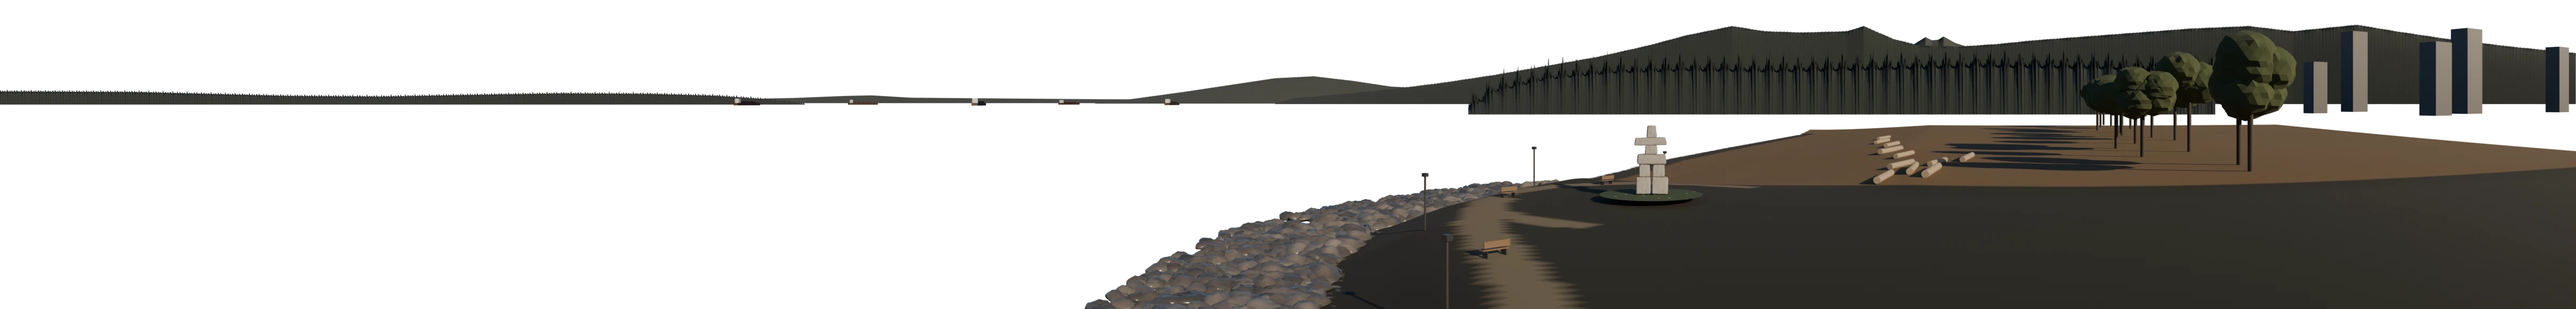
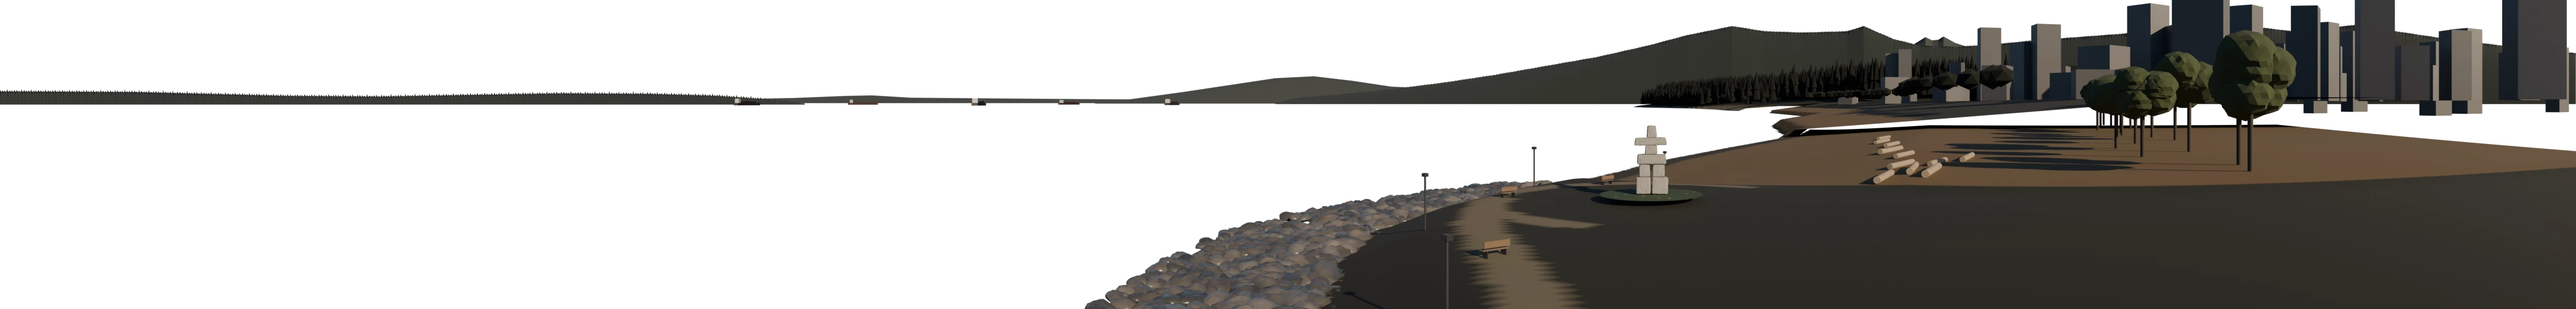
Model Stanley Park in 3D and frame the view on the sun
- Stanley Park is now a forested headland traced from satellite imagery:
  about 20,000 fir, cedar and maple crowns (some in autumn colour), the
  seawall, Second and Third Beach, and Siwash Rock, plus the West End
  shore and Beach Avenue trees.
- Fix the haze layer: it used a see-through material, so near objects
  picked up the haze of everything behind them and looked ghostly. It is
  now rendered solid to EXR and moved into the alpha channel.
- Wider default lens (about 120-130 degrees on desktop) with the sunset a
  quarter of the way in from the left; drag still pans along the shore.

Changed region(s): [[0.5625, 0.0, 1.0, 0.4375]]

diff --git a/index.html b/index.html
@@ -218,7 +218,7 @@ const RIDGES = [
   {name: "Bowen Island", far: .72, tex: .03, d: 20000, shift: -1, pts: [[286,0],[289,.35],[293,.9],[297,1.5],[300,1.95],[303,2.1],[306,1.75],[309,1.3],[313,1.1],[318,1.3]]},
   {name: "the North Shore mountains", far: .55, tex: .05, d: 13000, shift: 0, pts: [[299,0],[300.5,.4],[304,.7],[308,1.1],[312,1.6],[316,2.2],[320,2.9],[324,3.6],[328,4.5],[331,5.3],[334.5,6],[337,5.6],[340,5.5],[343.4,5.6],[344.7,6],[347,5],[349,4.5],[352,4.4],[355,4.6],[358,4.9],[362,5.2],[366,5.5],[370,5.8],[374.6,6],[378,5.6],[383,6.1],[386,5.6],[390,5],[395,4.4],[400,3.9]]},
   {name: "Point Grey", far: .35, tex: .06, d: 8000, shift: -3.5, pts: [[205,.95],[214,.9],[220,.75],[226,.6],[233,.55],[240,.68],[247,.8],[254,.76],[259,.62],[262,.42],[264.5,.15],[266,0]]},
-  {name: "Stanley Park", far: .12, tex: .12, d: 1300, shift: 0, pts: [[314,0],[316,1.4],[320,2.4],[325,2.9],[331,3.1],[338,3],[346,3.2],[354,3.4],[362,3.3],[372,3]]},
+  {name: "Stanley Park", far: .12, tex: .12, d: 2000, shift: 0, pts: [[326.5,0],[327.5,1.3],[330,1.9],[333,2.6],[336,2.9],[340,3],[345,2.9],[350,2.7],[356,2.6],[360,2.4]]},
   {name: "the Lions", far: .75, tex: 0, d: 19500, shift: 0, pts: [[346,4],[348.6,4.6],[349.5,5.15],[350,4.9],[350.5,4.95],[350.9,5.2],[351.8,4.7],[354,4]]},
 ];
 RIDGES.forEach(r => r.pts = r.pts.map(([a, h]) => [a + r.shift, Math.atan(Math.tan(h * rad) - CAM_H / r.d) / rad]));
@@ -383,7 +383,7 @@ const MAXALT = 48, C0 = 3;
 function resize() {
   const w = cvs.clientWidth || cvs.parentElement.clientWidth;
   DPR = Math.min(1.5, window.devicePixelRatio || 1);
-  Wd = w; Ht = Math.round(clamp(w * .45, 240, 540));
+  Wd = w; Ht = Math.round(clamp(w * .4, 240, 520));
   cvs.width = Math.round(Wd * DPR); cvs.height = Math.round(Ht * DPR); cvs.style.height = Ht + "px";
   for (const c of [offA, offB]) { c.width = cvs.width; c.height = cvs.height; c.getContext("2d").setTransform(DPR, 0, 0, DPR, 0, 0); }
   HZ = Ht * .70;
@@ -700,13 +700,13 @@ function drawDeck(deck, t, sun, L, W) {
 function renderCine(t) {
   const sun = sunPos(t), L = wxAt(0, t), W = wxAt(1, t);
   // camera: rule-of-thirds framing on tonight's sunset bearing, slow push-in through the time-lapse
-  const ppd0 = Math.max(Wd / 112, Ht * .3 / 15.4);
+  const ppd0 = Math.max(Wd / 130, Ht * .3 / 15.4);   // wide lens: the sun, the open bay and the Inukshuk together
   const prog = clamp((t - state.win[0]) / (state.win[1] - state.win[0]));
   V.ppd = ppd0 * (state.mode === "live" || reduceMotion ? 1.03 : 1 + .08 * ease(prog));
   const ss = state.ev ? state.ev.az : 260;
   const fov = Wd / V.ppd;
-  // sunset on the left third; slide right toward the Inukshuk and the North Shore when the frame is wide enough
-  let c = clamp(352 - fov / 2, ss + fov * .2, ss + fov * .44) + (sun.az - ss) * .12;
+  // the sunset sits about a quarter of the way in from the left; drag to look further along the shore
+  let c = ss + fov * .24 + (sun.az - ss) * .12;
   V.c = clamp(c + V.pan, 205 + fov / 2, 395 - fov / 2);
   V.hz = Ht * .7;
   ctx.setTransform(DPR, 0, 0, DPR, 0, 0);

diff --git a/blender/sp_ebay.py b/blender/sp_ebay.py
@@ -1,0 +1,125 @@
+# Stanley Park and the English Bay shore up to it, exec'd from land.py after fg_ebay.py (uses its helpers).
+# Shoreline traced from Google satellite imagery, in metres east (x) / north (y) of the Inukshuk, ordered from
+# Lions Gate round Prospect Point, south past Siwash Rock, Third Beach, Ferguson Point and Second Beach, then down
+# English Bay Beach to the Inukshuk point. Land lies on the right-hand side of travel.
+PARK_SHORE = [(110, 4100), (-140, 3970), (-480, 3930), (-770, 3805), (-935, 3555), (-1030, 3260), (-1095, 2970),
+              (-1180, 2675), (-1262, 2425), (-1313, 2175), (-1246, 1925), (-1062, 1715), (-811, 1505), (-619, 1255),
+              (-460, 1020), (-309, 795), (-184, 585), (-120, 330), (-60, 200), (-50, 120)]
+def park_dist(x, y):
+    best = 1e9
+    for (ax, ay), (bx, by) in zip(PARK_SHORE, PARK_SHORE[1:]):
+        dx, dy = bx - ax, by - ay; L2 = dx * dx + dy * dy
+        t = max(0, min(1, ((x - ax) * dx + (y - ay) * dy) / L2))
+        d = math.hypot(ax + t * dx - x, ay + t * dy - y)
+        if d < abs(best): best = d if dx * (y - ay) - dy * (x - ax) > 0 else -d
+    return best
+SECOND_BEACH, THIRD_BEACH = (1130, 1380), (2560, 2800)   # y-ranges of the sandy beaches
+def park_ground(x, y, d):
+    if y < 1050: return min(14, 2.5 + d * 0.08)                     # English Bay Beach and the West End shore
+    cliff = smooth(3300, 3700, y)                                    # Siwash Rock to Prospect Point: cliffs
+    hill = 3 + d * (0.12 + 0.5 * cliff)
+    return min(18 + 42 * cliff + 25 * smooth(200, 700, d), hill)
+def zone(x, y, d):
+    if y < 1050:
+        if d < 45: return "sand"
+        if d < 75: return "grass"
+        return "city"
+    if d < 7: return "seawall"
+    if SECOND_BEACH[0] < y < SECOND_BEACH[1] and d < 60: return "sand" if d < 45 else "grass"
+    if THIRD_BEACH[0] < y < THIRD_BEACH[1] and d < 35: return "sand"
+    if 1050 < y < 1500 and d < 160: return "grass"                  # lawns behind Second Beach
+    return "forest"
+ZC = {"sand": (0.4, 0.33, 0.24), "grass": (0.07, 0.09, 0.035), "seawall": (0.42, 0.4, 0.37), "city": (0.1, 0.1, 0.1), "forest": (0.02, 0.03, 0.02)}
+
+def heightfield(x0, x1, y0, y1, step):
+    bm = bmesh.new(); col = bm.loops.layers.color.new("Col"); vs, cs = {}, {}
+    nx, ny = int((x1 - x0) / step), int((y1 - y0) / step)
+    for i in range(nx + 1):
+        for j in range(ny + 1):
+            x, y = x0 + i * step, y0 + j * step
+            d = park_dist(x, y)
+            if d < -step * 1.5: continue
+            z = park_ground(x, y, max(d, 0)) if d > 0 else -1.0
+            zn = zone(x, y, max(d, 0))
+            if zn == "forest" and d > 320: z += 38 * smooth(320, 420, d)   # canopy cap where the trees end
+            vs[i, j] = bm.verts.new(W(x, y, z)); cs[i, j] = ZC[zn]
+    for i in range(nx):
+        for j in range(ny):
+            q = [(i, j), (i + 1, j), (i + 1, j + 1), (i, j + 1)]
+            if all(k in vs for k in q):
+                f = bm.faces.new([vs[k] for k in q])
+                for lp, k in zip(f.loops, q): lp[col] = (*cs[k], 1)
+    me = bpy.data.meshes.new("parkland"); bm.to_mesh(me); bm.free()
+    me.materials.append(bpy.data.materials["ground"]); link(bpy.data.objects.new("parkland", me))
+    for p in me.polygons: p.use_smooth = True
+heightfield(-330, 150, 180, 1060, 4)      # English Bay Beach up to Second Beach, fine cells (closer)
+heightfield(-1400, 700, 1040, 4200, 12)   # the park
+
+# ---------- trees: one merged mesh of conifers (Douglas fir, cedar) and broadleaf (bigleaf maple, some turning in October) ----------
+def tree_mat(n, l, b):
+    vc = n.new("ShaderNodeVertexColor"); vc.layer_name = "Tint"
+    nz = n.new("ShaderNodeTexNoise"); nz.inputs["Scale"].default_value = 0.35; nz.inputs["Detail"].default_value = 6
+    mul = n.new("ShaderNodeMix"); mul.data_type = "RGBA"; mul.blend_type = "MULTIPLY"; mul.inputs[0].default_value = 0.45
+    l.new(vc.outputs["Color"], mul.inputs[6]); l.new(nz.outputs["Color"], mul.inputs[7]); l.new(mul.outputs[2], b.inputs["Base Color"])
+    b.inputs["Roughness"].default_value = 1.0
+    bp = n.new("ShaderNodeBump"); bp.inputs["Strength"].default_value = 0.6; l.new(nz.outputs["Fac"], bp.inputs["Height"]); l.new(bp.outputs["Normal"], b.inputs["Normal"])
+bm = bmesh.new(); tint = bm.loops.layers.color.new("Tint")
+def add_cone(cx, cy, z0, r, h, sides, c):
+    ring = [bm.verts.new(W(cx + math.cos(a) * r * random.uniform(.85, 1.15), cy + math.sin(a) * r * random.uniform(.85, 1.15), z0))
+            for a in [k * 2 * math.pi / sides + random.random() * .3 for k in range(sides)]]
+    top = bm.verts.new(W(cx + random.uniform(-.6, .6), cy + random.uniform(-.6, .6), z0 + h))
+    for k in range(sides):
+        f = bm.faces.new((ring[k], ring[(k + 1) % sides], top))
+        for lp in f.loops: lp[tint] = c
+def add_blob(cx, cy, z0, r, c):
+    g = bmesh.ops.create_icosphere(bm, subdivisions=1, radius=r)
+    for v in g["verts"]:
+        v.co = Vector(W(cx, cy, z0)) + Vector((v.co.x * random.uniform(.85, 1.15), v.co.y * random.uniform(.85, 1.15), v.co.z * .75))
+    for f in {f for v in g["verts"] for f in v.link_faces}:
+        for lp in f.loops: lp[tint] = c
+random.seed(11); count = 0
+SP = 8.5
+for gx in range(int(-1400 / SP), int(700 / SP)):
+    for gy in range(int(1040 / SP), int(4200 / SP)):
+        x, y = gx * SP + random.uniform(-3, 3), gy * SP + random.uniform(-3, 3)
+        d = park_dist(x, y)
+        if d < 12 or d > 380: continue
+        zn = zone(x, y, d)
+        if zn != "forest" and not (zn == "grass" and random.random() < 0.08): continue
+        z0 = park_ground(x, y, d)
+        if random.random() < 0.72:   # conifer: two or three tiers
+            h = random.uniform(32, 58) * (1.15 if d > 60 else 0.9); r = h * random.uniform(.14, .19)
+            c = (random.uniform(.016, .03), random.uniform(.032, .05), random.uniform(.026, .04), 1)
+            add_cone(x, y, z0 + h * .12, r, h * .55, 7, c)
+            add_cone(x, y, z0 + h * .45, r * .72, h * .55, 7, c)
+        else:                         # broadleaf crown; a quarter of them in autumn colour
+            h = random.uniform(18, 30); r = random.uniform(5, 8.5)
+            c = (random.uniform(.18, .3), random.uniform(.1, .16), .02, 1) if random.random() < .28 else (random.uniform(.035, .05), random.uniform(.06, .08), .025, 1)
+            add_blob(x, y, z0 + h * .62, r, c)
+        count += 1
+# a row of big street trees along Beach Avenue behind English Bay Beach
+for k in range(40):
+    y = 230 + k * 20 + random.uniform(-4, 4)
+    for x in range(-330, 150, 6):
+        if 75 < park_dist(x, y) < 81:
+            add_blob(x + random.uniform(-2, 2), y, park_ground(x, y, 78) + 14, random.uniform(5.5, 7.5), (0.04, 0.065, 0.025, 1)); break
+me = bpy.data.meshes.new("parktrees"); bm.to_mesh(me); bm.free()
+me.materials.append(shader("parktrees", tree_mat)); link(bpy.data.objects.new("parktrees", me))
+print("PARK TREES", count, flush=True)
+
+# West End buildings behind Beach Avenue (low-rise near the water, towers further in)
+tower = bpy.data.materials["tower"] if "tower" in bpy.data.materials else material("tower", (0.12, 0.12, 0.13), 0.5)
+for k in range(70):
+    x, y = random.uniform(-280, 400), random.uniform(260, 1050)
+    d = park_dist(x, y)
+    if d < 95: continue
+    h = random.uniform(12, 30) if d < 180 else random.uniform(30, 85)
+    w = random.uniform(16, 28)
+    box(W(x, y, park_ground(x, y, d) + h / 2), (w, w * random.uniform(.7, 1.3), h), random.uniform(0, 1.5), tower)
+
+# Siwash Rock: the sea stack off the park's west shore, with its lone tree
+bpy.ops.mesh.primitive_cylinder_add(vertices=14, radius=7, depth=16, location=W(-1078, 3268, 7))
+sr = bpy.context.object; sr.scale = (1.0, 0.8, 1.0); sr.data.materials.append(granite)
+dm = sr.modifiers.new("d", "DISPLACE"); tx = bpy.data.textures.new("siwash", "CLOUDS"); tx.noise_scale = 3; dm.texture = tx; dm.strength = 2.5
+bm = bmesh.new(); tint = bm.loops.layers.color.new("Tint"); add_cone(-1078, 3268, 15, 2.5, 9, 7, (0.02, 0.04, 0.03, 1))
+me = bpy.data.meshes.new("siwashtree"); bm.to_mesh(me); bm.free(); me.materials.append(bpy.data.materials["parktrees"]); link(bpy.data.objects.new("siwashtree", me))

diff --git a/blender/land.py b/blender/land.py
@@ -2,11 +2,12 @@
 #   land_shade.webp  lit colour with alpha (terrain, freighters, the Inukshuk and its point, beach)
 #   land_haze.webp   white, alpha = aerial-perspective amount by distance (0 near, 1 far)
 # World axes: +Y north, +X east, metres. Camera 12 m above the rocks at Rock Balance Point, 68 m south-east of the Inukshuk.
-# Usage: Blender -b --factory-startup -P land.py -- OUTDIR PXPERDEG SAMPLES
+# Usage: Blender -b --factory-startup -P land.py -- OUTDIR PXPERDEG SAMPLES [haze]
 import bpy, bmesh, math, sys, os, json, random
 
 argv = sys.argv[sys.argv.index("--") + 1:]
 OUT, PXD, SAMPLES = argv[0], float(argv[1]), int(argv[2])
+HAZE_ONLY = len(argv) > 3 and argv[3] == "haze"   # re-render just the haze layer
 AZ0, AZ1, ALT0, ALT1 = 200.0, 400.0, -16.0, 8.0   # bearings past 360 wrap to the north-east
 os.makedirs(OUT, exist_ok=True)
 random.seed(4)
@@ -62,7 +63,6 @@ RIDGES = [
         [337,5.6],[340,5.5],[343.4,5.6],[344.7,6.0],[347,5.0],[349,4.5],[352,4.4],[355,4.6],[358,4.9],[362,5.2],[366,5.5],[370,5.8],[374.6,6.0],[378,5.6],[383,6.1],[386,5.6],[390,5.0],[395,4.4],[400,3.9]]),
     ("The Lions", 19500, 1500, 0, 0.0, [[346,4.0],[348.6,4.6],[349.5,5.15],[350.0,4.9],[350.5,4.95],[350.9,5.2],[351.8,4.7],[354,4.0]]),
     ("Point Grey", 8000, 1500, 35, -3.5, [[196,.95],[205,.95],[214,.9],[220,.75],[226,.6],[233,.55],[240,.68],[247,.8],[254,.76],[259,.62],[262,.42],[264.5,.15],[266,0]]),
-    ("Stanley Park", 1300, 400, 45, 0.0, [[314,0],[316,1.4],[320,2.4],[325,2.9],[331,3.1],[338,3.0],[346,3.2],[354,3.4],[362,3.3],[372,3.0]]),
 ]
 def prof(pts, a):
     if a <= pts[0][0] or a >= pts[-1][0]: return 0.0
@@ -120,6 +120,7 @@ for b, dist, L, head in [(258, 4200, 190, 30), (267, 5600, 225, 75), (276, 3800,
         c.scale = (L * 0.07, 13, 4 + random.random() * 3); c.rotation_euler = h.rotation_euler; c.data.materials.append(hull)
 
 exec(open(os.path.join(os.path.dirname(__file__), "fg_ebay.py")).read())
+exec(open(os.path.join(os.path.dirname(__file__), "sp_ebay.py")).read())   # Stanley Park, modelled in 3D
 
 # Daylight to shade the scenery: sun low in the WSW (backlit, as it is all afternoon from this beach)
 world = bpy.data.worlds.new("w"); sc.world = world; world.use_nodes = True
@@ -129,9 +130,10 @@ sky.sun_elevation = math.radians(22); sky.sun_rotation = math.radians(110); sky.
 wl.new(sky.outputs["Color"], wn["Background"].inputs["Color"])
 sc.view_settings.exposure = -4.6
 sc.render.filepath = os.path.join(OUT, "land_shade.webp")
-bpy.ops.render.render(write_still=True); print("RENDERED shade", flush=True)
+if not HAZE_ONLY: bpy.ops.render.render(write_still=True); print("RENDERED shade", flush=True)
 
-# Haze pass: emission = 1 - exp(-distance / 14 km)
+# Haze pass: solid emission = 1 - exp(-distance / 14 km), rendered linear to EXR, then moved into the alpha channel
+# (a see-through haze material would let far objects' haze leak into near ones)
 hz = bpy.data.materials.new("haze"); hz.use_nodes = True
 n = hz.node_tree.nodes; l = hz.node_tree.links
 for x in list(n): n.remove(x)
@@ -139,17 +141,22 @@ camd = n.new("ShaderNodeCameraData"); m1 = n.new("ShaderNodeMath"); m1.operation
 ex = n.new("ShaderNodeMath"); ex.operation = "EXPONENT"; inv = n.new("ShaderNodeMath"); inv.operation = "SUBTRACT"; inv.inputs[0].default_value = 1.0
 em = n.new("ShaderNodeEmission"); outm = n.new("ShaderNodeOutputMaterial")
 l.new(camd.outputs["View Distance"], m1.inputs[0]); l.new(m1.outputs[0], ex.inputs[0]); l.new(ex.outputs[0], inv.inputs[1])
-em.inputs["Color"].default_value = (1, 1, 1, 1)
-tr = n.new("ShaderNodeBsdfTransparent"); mx = n.new("ShaderNodeMixShader")  # alpha = haze amount
-l.new(inv.outputs[0], mx.inputs[0]); l.new(tr.outputs[0], mx.inputs[1]); l.new(em.outputs[0], mx.inputs[2])
-l.new(mx.outputs[0], outm.inputs["Surface"])
+l.new(inv.outputs[0], em.inputs["Color"]); l.new(em.outputs[0], outm.inputs["Surface"])
 for ob in sc.objects:
     if ob.type == "MESH":
         ob.data.materials.clear(); ob.data.materials.append(hz)
 wn["Background"].inputs["Strength"].default_value = 0
 sc.view_settings.view_transform = "Standard"; sc.view_settings.exposure = 0
 sc.cycles.samples = 16
-sc.render.filepath = os.path.join(OUT, "land_haze.webp")
-bpy.ops.render.render(write_still=True); print("RENDERED haze", flush=True)
+sc.render.image_settings.file_format = "OPEN_EXR"; sc.render.image_settings.color_mode = "RGBA"
+tmp = os.path.join(OUT, "_haze.exr"); sc.render.filepath = tmp
+bpy.ops.render.render(write_still=True)
+import numpy as np
+src = bpy.data.images.load(tmp); w, h = src.size
+px = np.array(src.pixels[:], dtype=np.float32).reshape(h, w, 4)
+outpx = np.ones_like(px); outpx[..., 3] = np.clip(px[..., 0], 0, 1) * px[..., 3]
+dst = bpy.data.images.new("haze", w, h, alpha=True); dst.pixels = outpx.ravel()
+dst.filepath_raw = os.path.join(OUT, "land_haze.webp"); dst.file_format = "WEBP"; dst.save()
+os.remove(tmp); print("RENDERED haze", flush=True)
 json.dump({"az": [AZ0, AZ1], "alt": [ALT0, ALT1], "pxPerDeg": PXD, "cameraHeight": CAMH, "inukshukBearing": INUK_BEARING},
           open(os.path.join(OUT, "land_meta.json"), "w"), indent=1)

diff --git a/README.md b/README.md
@@ -22,5 +22,5 @@ blender -b --factory-startup -P blender/land.py -- assets/land 24 64
 blender -b --factory-startup -P blender/clouds.py -- assets/clouds
 ```
 
-`land.py` builds the horizon ridges and runs `fg_ebay.py` for the Inukshuk point (shoreline traced from satellite imagery).
+`land.py` builds the horizon ridges and runs `fg_ebay.py` (the Inukshuk point) and `sp_ebay.py` (Stanley Park and the English Bay shore), with shorelines traced from satellite imagery.
 The sky frames are in sun-relative azimuth, so the page slides them to the sun's true bearing for any day of the year.
